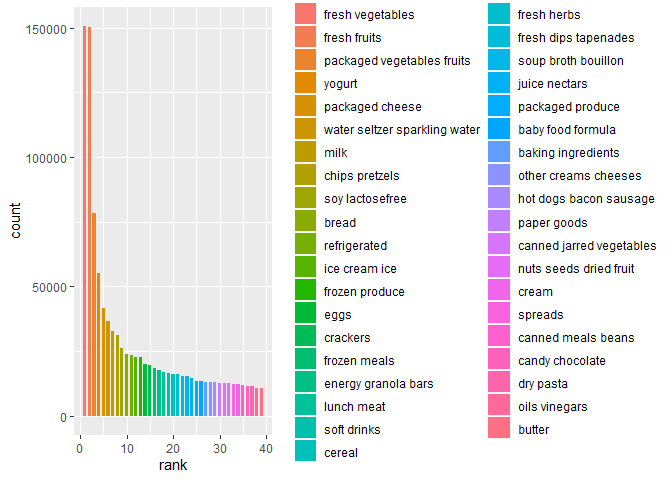
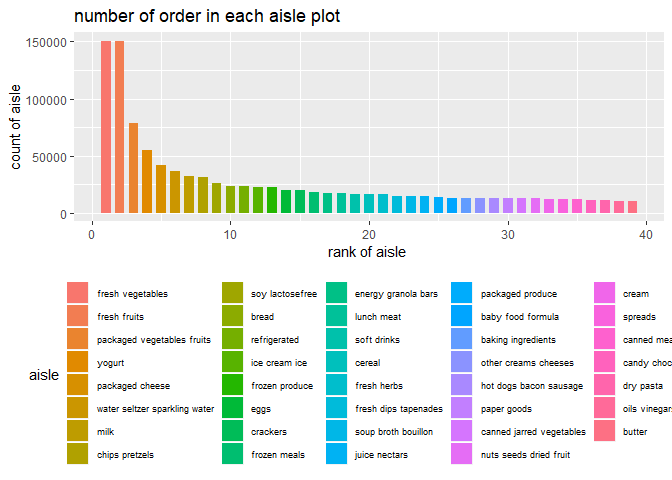
problem2 plot x-axis change

Changed region(s): [[0.0, 0.0, 1.0, 1.0], [0.0, 0.4062, 0.0312, 0.5]]

diff --git a/p8105_hw3_gx2144.md b/p8105_hw3_gx2144.md
@@ -120,12 +120,7 @@ aislenumber = instacart %>%
         ) 
 
 ggplot(aislenumber,aes(x = rank,y = count, fill = aisle))+
-  geom_bar(stat = "identity", width = 0.7)
-```
-
-![](p8105_hw3_gx2144_files/figure-gfm/unnamed-chunk-3-1.png)<!-- -->
-
-``` r
+  geom_bar(stat = "identity", width = 0.7)+
   labs(
     title = "number of order in each aisle plot",
     x = "rank of aisle ",
@@ -137,7 +132,7 @@ ggplot(aislenumber,aes(x = rank,y = count, fill = aisle))+
     )
 ```
 
-    ## NULL
+![](p8105_hw3_gx2144_files/figure-gfm/unnamed-chunk-3-1.png)<!-- -->
 
   - The aisle from which the items were ordered most is fresh
     vegetables.
@@ -303,6 +298,7 @@ ggplot(NY,aes(x = response,y = response_value,fill =place ))+
       theme(legend.position = "right")+
       ggthemes::theme_excel()+
       scale_y_continuous(breaks = seq(0,30,2))+
+      theme(axis.text.x = element_text(size = 8, vjust = 0.5, hjust = 0.5, angle = 45))+
       facet_grid(. ~ year)
 ```
 
